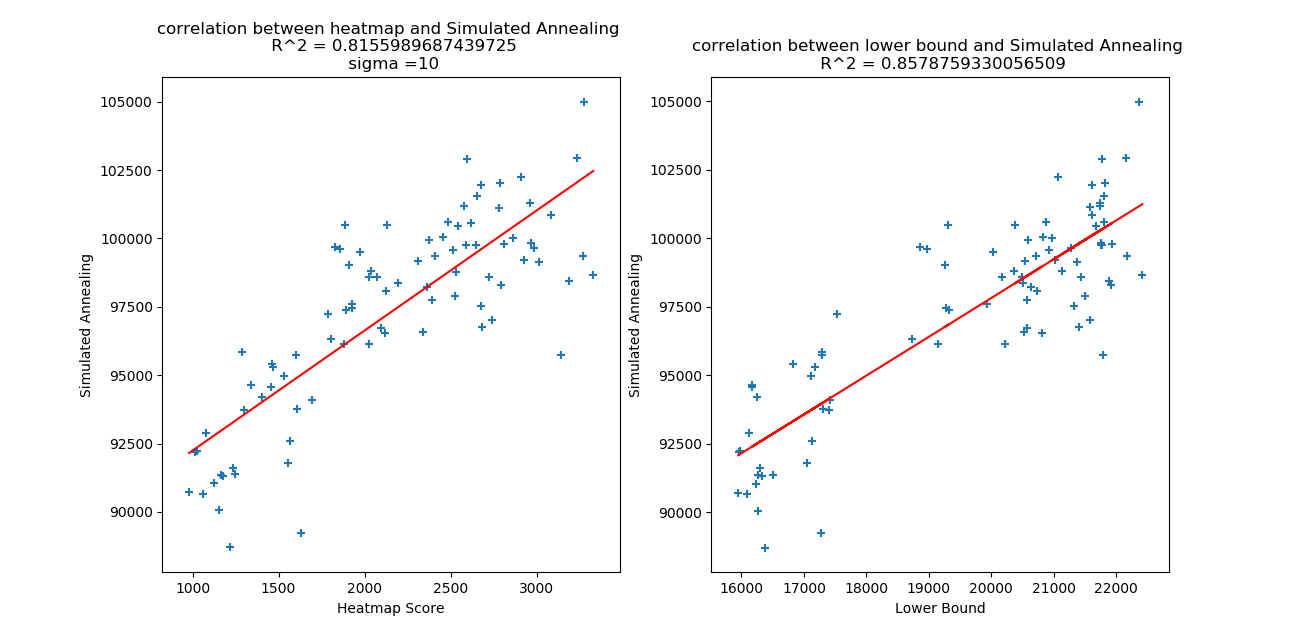
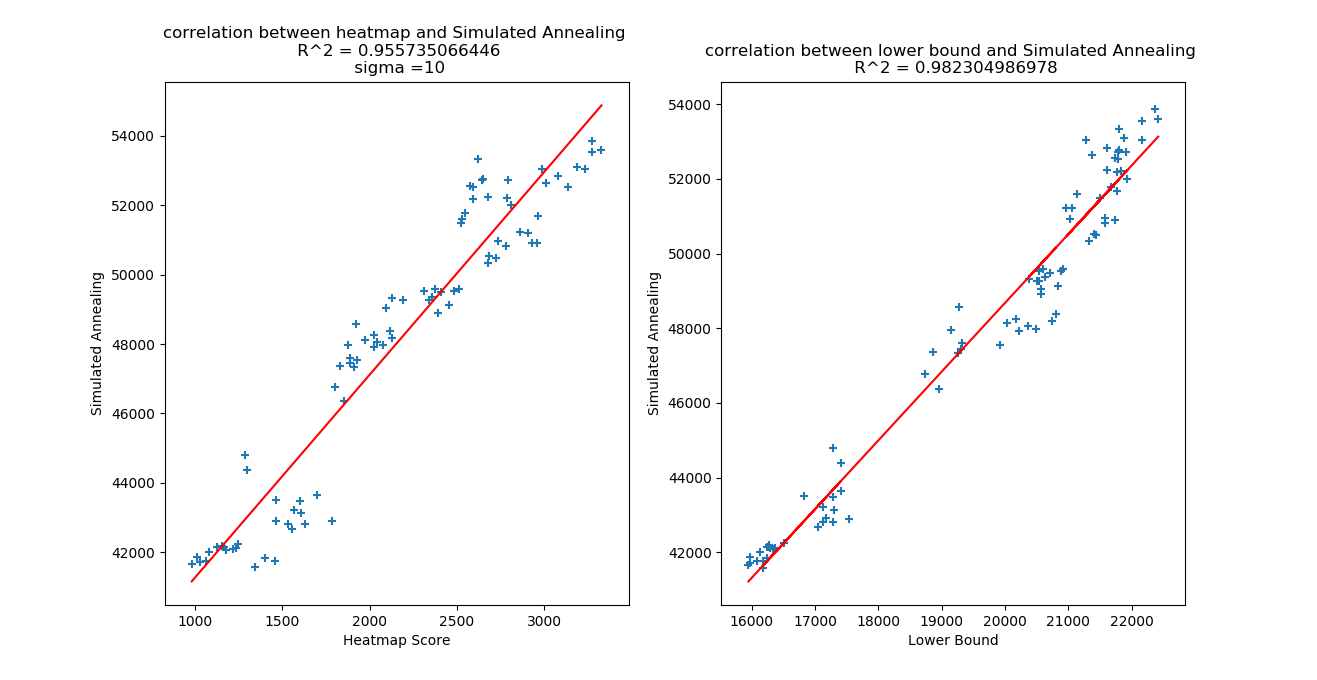
images

diff --git a/Code/Helper_Functions/smart_grid.py b/Code/Helper_Functions/smart_grid.py
@@ -257,19 +257,19 @@ class SmartGrid:
         """ determines lower bound of the grid configuration
         """
         self.lower_bound = 0
-        # for bat in self.battery_dict:
-        #     print(bat)
-        #     if (bat['capacity'] == 1507.0):
-        #         self.lower_bound += 5000
-        #     elif (bat['capacity'] == 450):
-        #         self.lower_bound += 900
-        #     elif (bat['capacity'] == 900):
-        #         self.lower_bound += 1350
-        #     elif (bat['capacity'] == 1800):
-        #         self.lower_bound += 1800
-        #     else:
-        #         # print("unknown battery type")
-        #         pass
+        for bat in self.battery_dict:
+            # print(bat)
+            if (bat['capacity'] == 1507.0):
+                self.lower_bound += 5000
+            elif (bat['capacity'] == 450):
+                self.lower_bound += 900
+            elif (bat['capacity'] == 900):
+                self.lower_bound += 1350
+            elif (bat['capacity'] == 1800):
+                self.lower_bound += 1800
+            else:
+                # print("unknown battery type")
+                pass
         if self.house_data == None:
             # print("Missing self.house_data")
             pass

diff --git a/Code/Helper_Functions/scatterplot_heatmap.py b/Code/Helper_Functions/scatterplot_heatmap.py
@@ -24,7 +24,7 @@ def main():
     houses, unused = read_data(house_path, battery_path)
     # print(unused)
 
-    with open("../../Results/Battery_configurations/scatterplotdata_sigma10.json") as f:
+    with open("../../Results/Battery_configurations/scatterplotdata_sigma4.json") as f:
         parsed_data = json.load(f)
 
     for i, batter_positions in enumerate(parsed_data['DATAMETA']['DATA']):
@@ -64,7 +64,7 @@ def main():
         print("Simulated Annealing: {}".format(siman.calc_cost()))
         # print("price of wijk random{}".format(total_cost))
         # DO SIMANNEALING HERE
-        parsed_data['DATAMETA']['DATA'][i]['siman_gridscore'] = total_cost
+        parsed_data['DATAMETA']['DATA'][i]['siman_gridscore'] = siman.calc_cost()
 
     heat = []
     lower = []

diff --git a/main.py b/main.py
@@ -83,9 +83,10 @@ def main():
     # plt.show()
     # wijk1.get_lower_bound()
     # print("Lower bound of grid is: {}".format(wijk1.lower_bound))
-    battery_placer(wijk1, 10)
+    battery_placer(wijk1, 2)
     # print(x)
-    battery_path = 'Results/Battery_configurations/BESTSCORE_SIGMA_10.csv'
+    battery_path = 'Results/Battery_configurations/test.csv'
+    # battery_path = 'Results/Battery_configurations/BESTSCORE_SIGMA_2.csv'
     # battery_path = 'Results/Battery_configurations/lucas_1137_nice_sigma10.csv'
     # battery_path = 'Results/Battery_configurations/leuknaampjes.csv'
     houses, batteries = read_data(house_path, battery_path)
